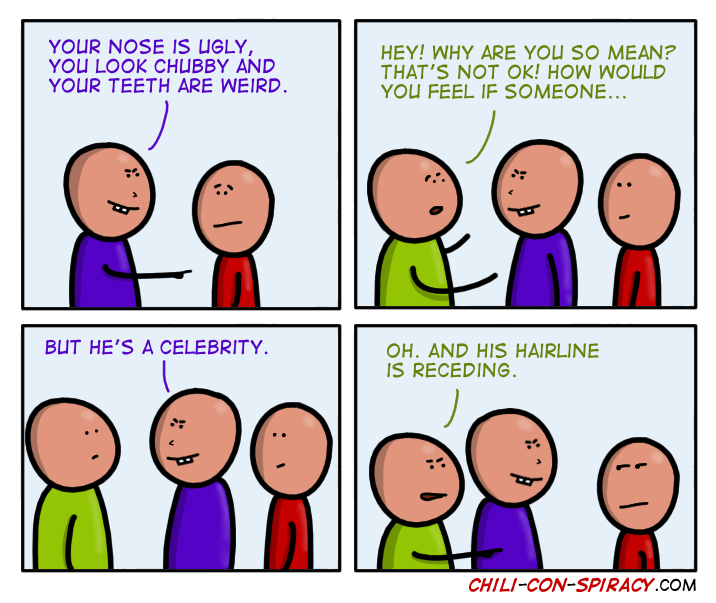
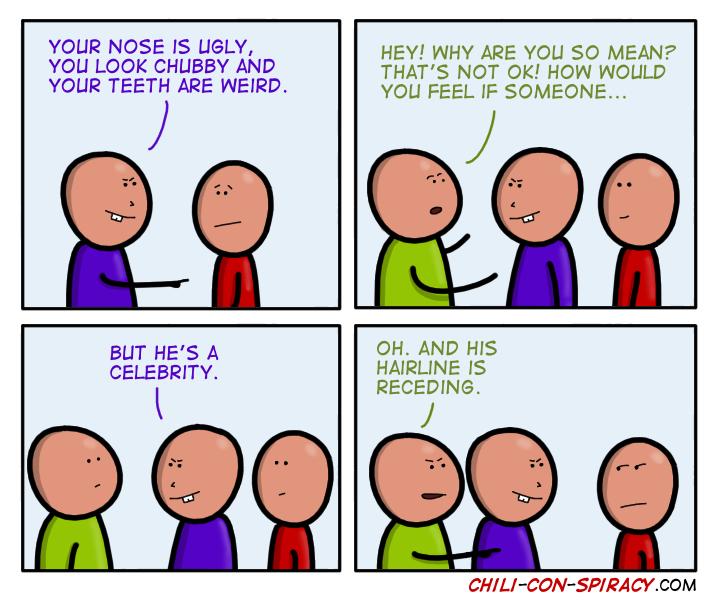
Update comics

diff --git a/about.md b/about.md
@@ -4,7 +4,7 @@ title: About
 ---
 
 # About
-Bad drawings mainly about conspiracy theories, gaming, programming, my life and other uninteresting topics.
+Badly drawn comic strips mainly about conspiracy theories, gaming, programming, my life and other uninteresting topics.
 
 # FAQ
 

diff --git a/_posts/2020-12-18-afraid-to-commit.md b/_posts/2020-12-18-afraid-to-commit.md
@@ -1,0 +1,4 @@
+---
+layout: comic
+tags: "softwaredev relationships commit git"
+---

diff --git a/_posts/2021-02-06-mean-talk.md b/_posts/2021-02-06-mean-talk.md
@@ -1,0 +1,4 @@
+---
+layout: comic
+tags: "celebrity hater"
+---
